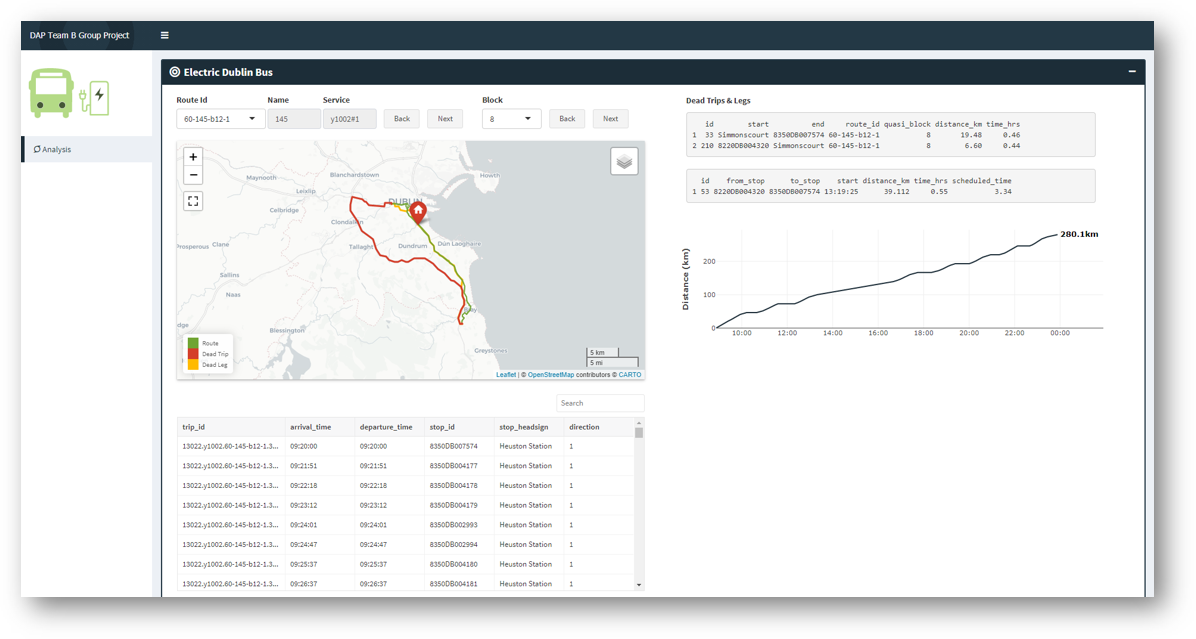
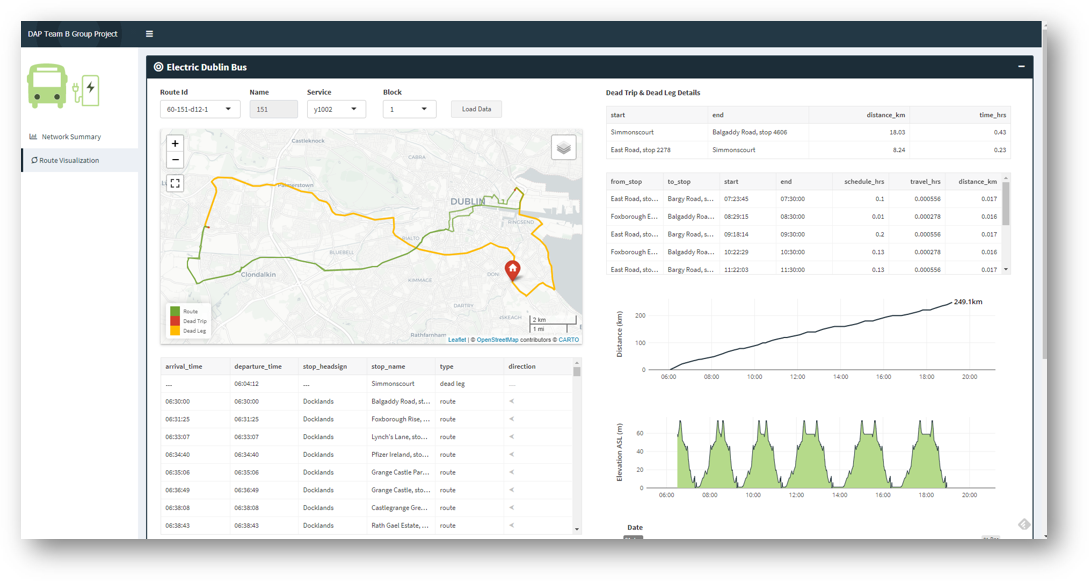
Create DB keys, fix for change in elevations table name, new images to readme

diff --git a/_pipeline/run_pipeline.py b/_pipeline/run_pipeline.py
@@ -121,6 +121,7 @@ else :
     functs.createIndex(col = 'route_id', table = 'distances', connection = conn,  curs = conn.cursor())
     functs.createIndex(col = 'service_id', table = 'distances', connection = conn,  curs = conn.cursor())
     functs.createIndex(col = 'quasi_block', table = 'distances', connection = conn,  curs = conn.cursor())
+    functs.createIndex(col = 'stop', table = 'distances', connection = conn,  curs = conn.cursor())    
 
     # STEP 6 - COLLECT ELEVATION DATA
     # ====================================
@@ -129,6 +130,8 @@ else :
     import CollectStopElevations
     print('Step 6: Gather elevations as part of Step 6...')
     CollectStopElevations.collectStopElevations()
+    functs.createIndex(col = 'latitude', table = 'stopElevations', connection = conn,  curs = conn.cursor())    
+    functs.createIndex(col = 'longitude', table = 'stopElevations', connection = conn,  curs = conn.cursor())    
     
     # STEP 7 - CREATE TEMPERATURE STATS
     # =================================

diff --git a/README.md b/README.md
@@ -5,7 +5,8 @@ Visualization of factors affecting the feasibility of transitioning the Dublin B
 **App** (under development)  
 https://orb10x.shinyapps.io/dapTbElectricBus/
   
-![](app/www/screen1.PNG)
+![](app/www/screen1.png)
+![](app/www/screen2.png)
   
 #### GTFS Ingestion & Processing Steps
 
@@ -20,8 +21,9 @@ https://orb10x.shinyapps.io/dapTbElectricBus/
 9. Save log of post_ids for routes & applicable dead trips to Azure SQL db.
 10. Extract raw route data from Azure Cosmos db & transform to table of total distance, total time & coords.
 11. Get elevation data for all trips (GTFS & dead) from Open Elevation API.
-11. Save transformed dead trip & elevation data to Azure SQL db.  
-12. Visualize data in R Shiny.
+12. Get statistical ambient temperature data for Dublin (hourly means for each week of the year).
+13. Save transformed dead trip & elevation data to Azure SQL db.  
+14. Visualize data in R Shiny.
 
   
 #### GTFS General Notes
